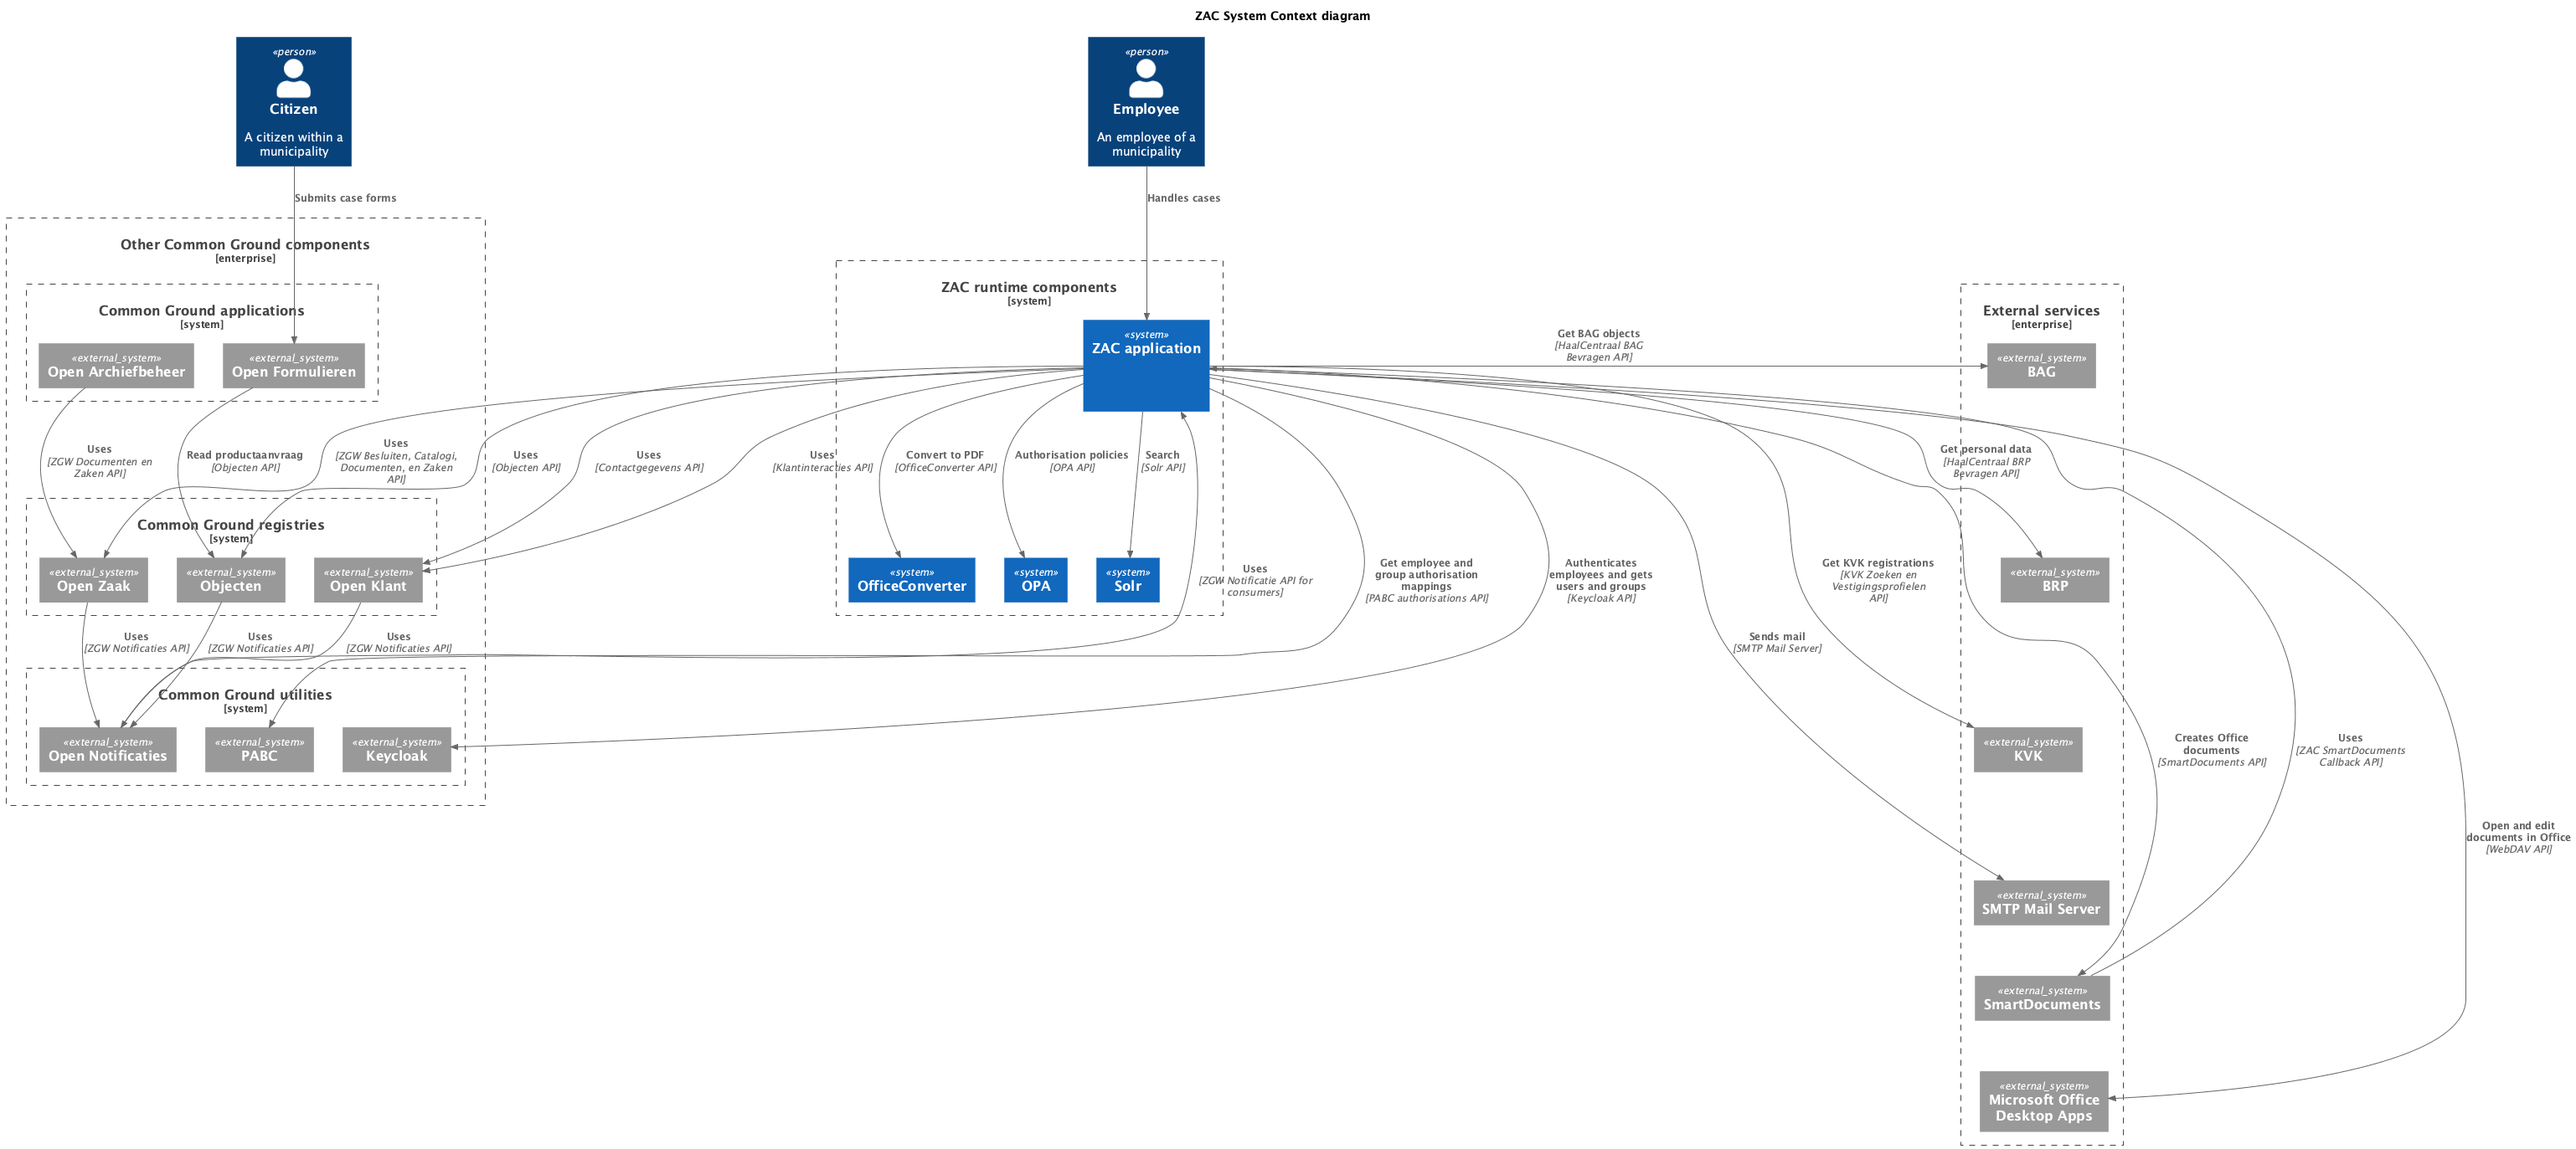
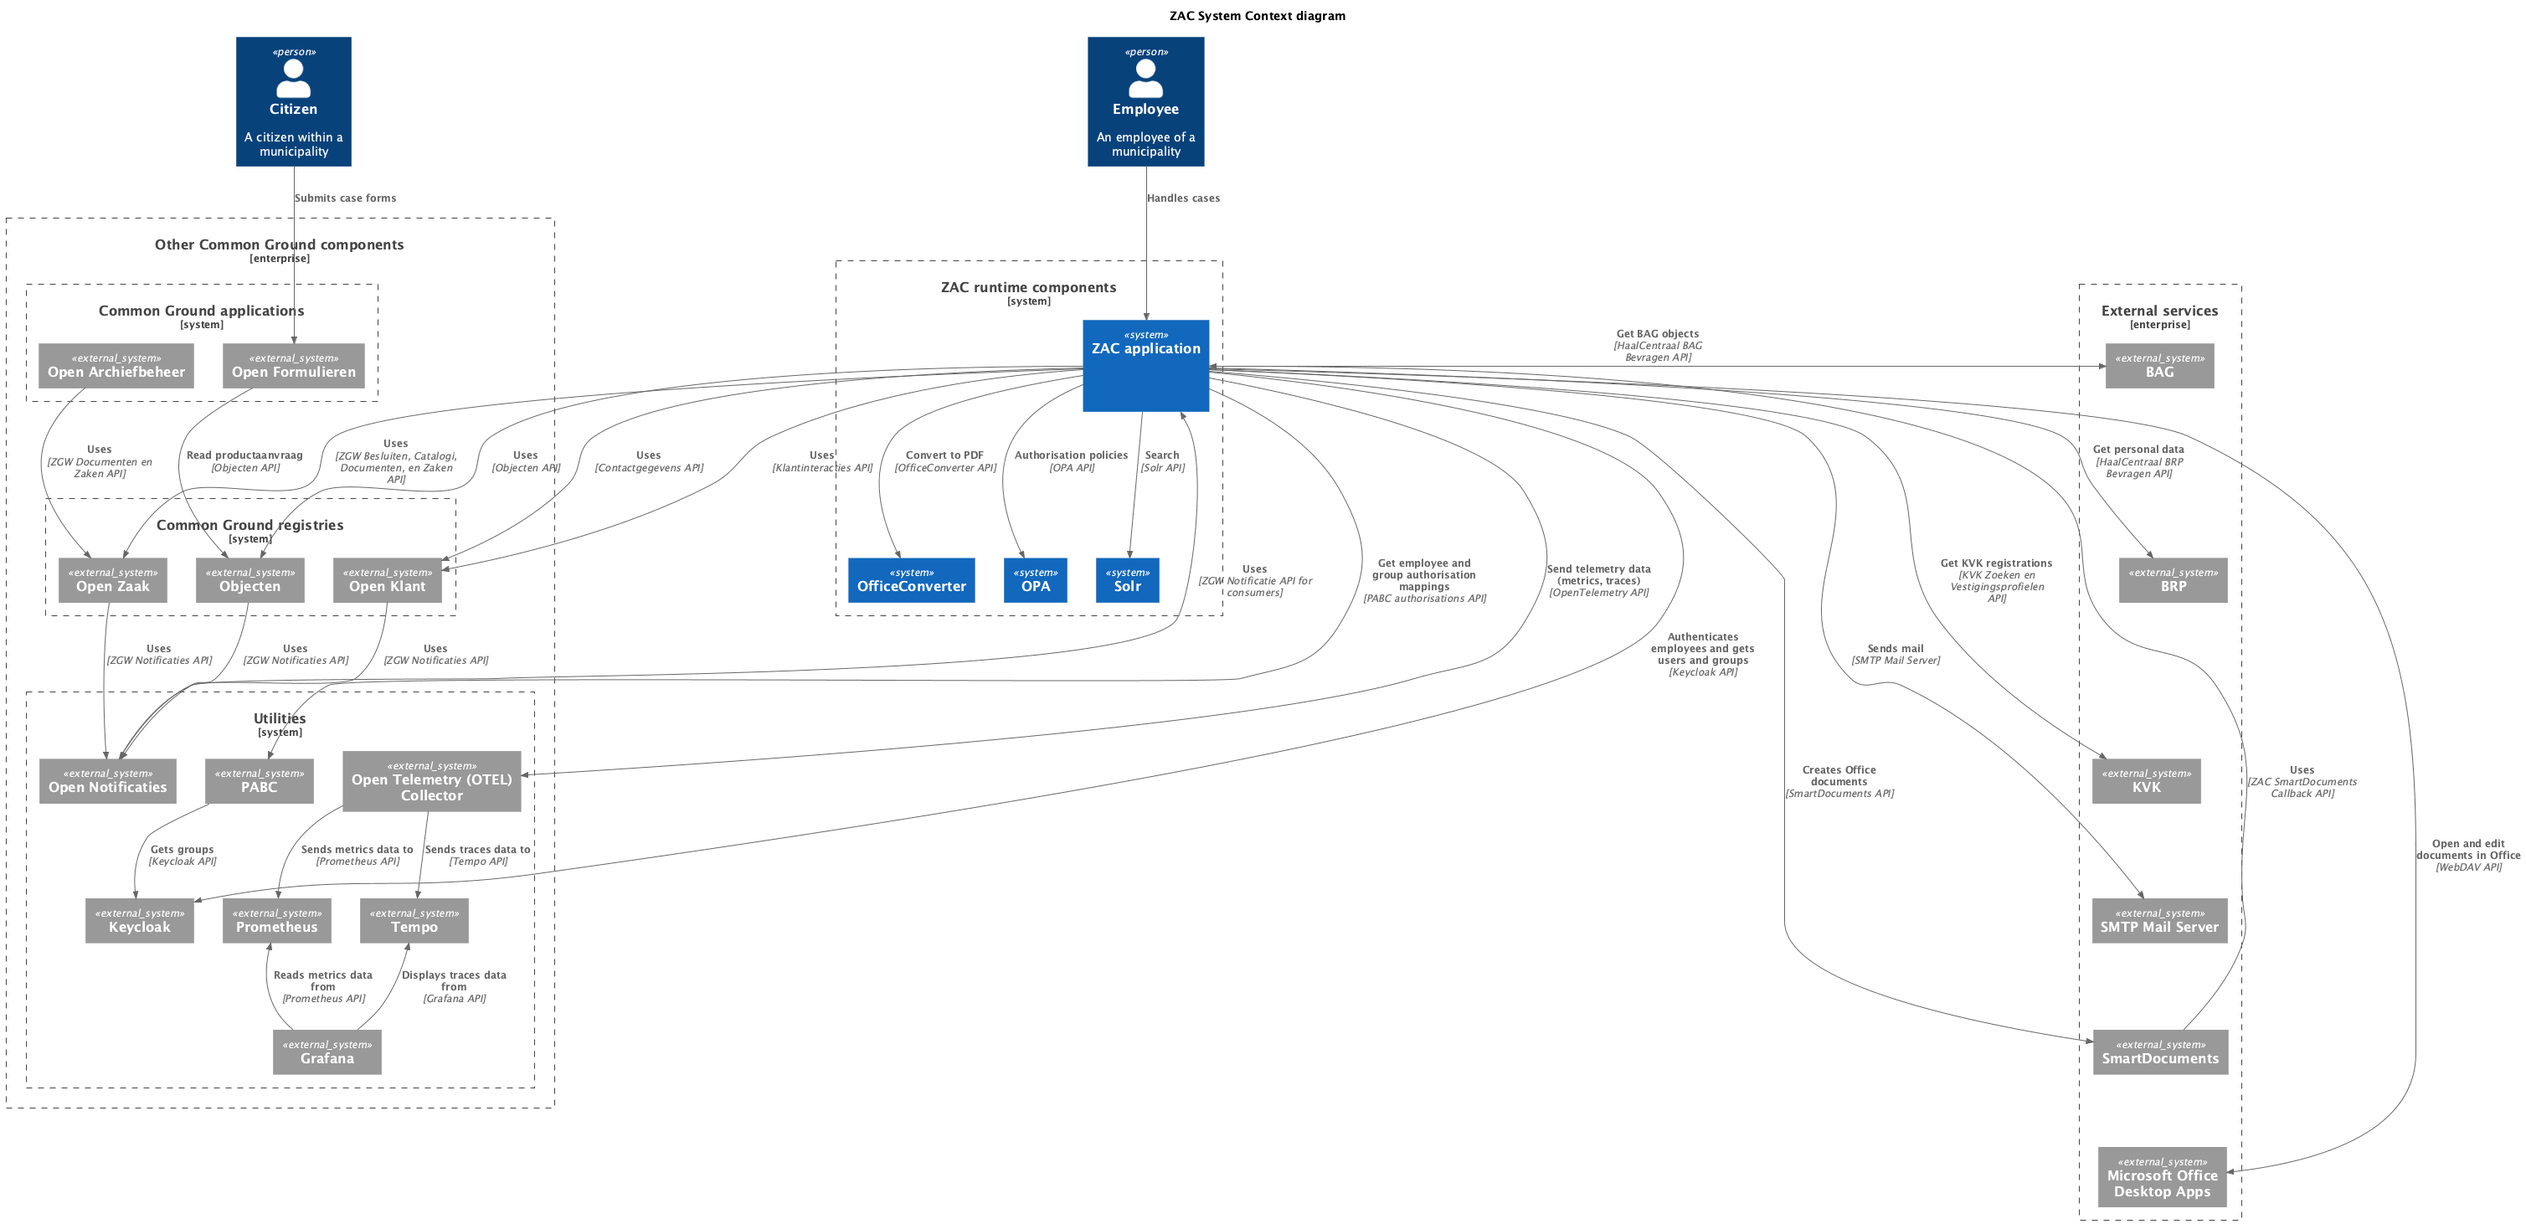
docs: added OTEL Collector and friends to system context diagram

diff --git a/docs/solution-architecture/plantuml-diagrams/README.md b/docs/solution-architecture/plantuml-diagrams/README.md
@@ -15,3 +15,5 @@ To generate a PNG image from a PlantUML diagram file (e.g. `diagram.puml`), run:
 ```sh
 plantuml diagram.puml --output-dir ../images
 ```
+
+or to generate all PlantUML diagram images at once, just run the [generate-plantuml-images.sh](generate-plantuml-images.sh) script.
